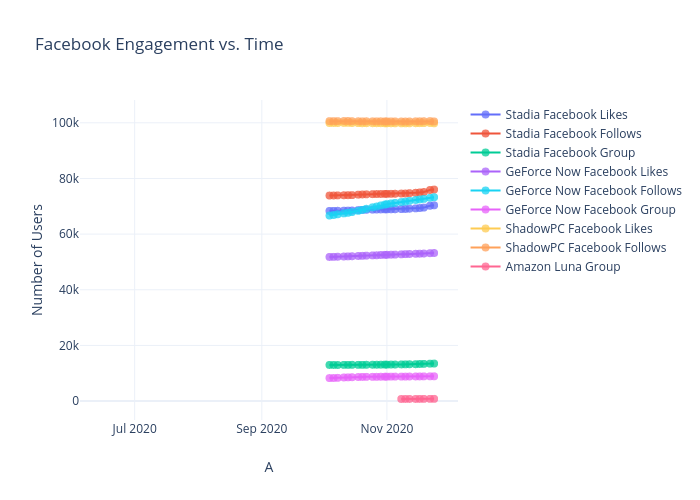
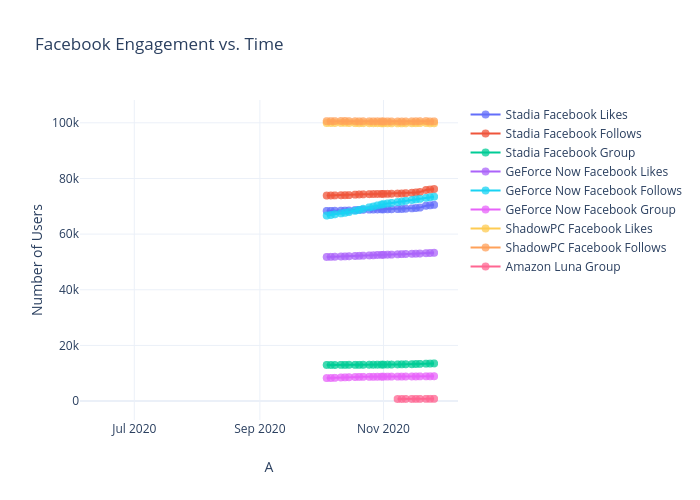
Add files via upload
Nov 26 data

diff --git a/facebook/figure.js b/facebook/figure.js
@@ -70,7 +70,8 @@ var figure = {
                 "69374",
                 "69532",
                 "70192",
-                "70341"
+                "70341",
+                "70514"
             ],
             "marker": {
                 "size": 8,
@@ -149,7 +150,8 @@ var figure = {
                 "74972",
                 "75134",
                 "75843",
-                "76007"
+                "76007",
+                "76196"
             ],
             "marker": {
                 "size": 8,
@@ -228,7 +230,8 @@ var figure = {
                 "13324",
                 "13358",
                 "13440",
-                "13473"
+                "13473",
+                "13523"
             ],
             "marker": {
                 "size": 8,
@@ -307,7 +310,8 @@ var figure = {
                 "52965",
                 "53021",
                 "53147",
-                "53208"
+                "53208",
+                "53283"
             ],
             "marker": {
                 "size": 8,
@@ -386,7 +390,8 @@ var figure = {
                 "72460",
                 "72650",
                 "73030",
-                "73256"
+                "73256",
+                "73453"
             ],
             "marker": {
                 "size": 8,
@@ -465,7 +470,8 @@ var figure = {
                 "8847",
                 "8871",
                 "8886",
-                "8894"
+                "8894",
+                "8915"
             ],
             "marker": {
                 "size": 8,
@@ -544,7 +550,8 @@ var figure = {
                 "99869",
                 "99895",
                 "99938",
-                "99815"
+                "99815",
+                "99842"
             ],
             "marker": {
                 "size": 8,
@@ -623,7 +630,8 @@ var figure = {
                 "100542",
                 "100568",
                 "100612",
-                "100489"
+                "100489",
+                "100516"
             ],
             "marker": {
                 "size": 8,
@@ -702,7 +710,8 @@ var figure = {
                 "767",
                 "773",
                 "783",
-                "794"
+                "794",
+                "798"
             ],
             "marker": {
                 "size": 8,
@@ -719,8 +728,8 @@ var figure = {
         "xaxis": {
             "type": "date",
             "range": [
-                "2020-06-05 15:15:13.8593",
-                "2020-12-04 08:44:46.1407"
+                "2020-06-05 12:09:49.8079",
+                "2020-12-06 11:50:10.1921"
             ],
             "title": {
                 "text": "A"
@@ -730,8 +739,8 @@ var figure = {
         "yaxis": {
             "type": "linear",
             "range": [
-                -10420.511122345804,
-                111811.51112234581
+                -8739.259206798868,
+                110130.25920679887
             ],
             "title": {
                 "text": "Number of Users"
